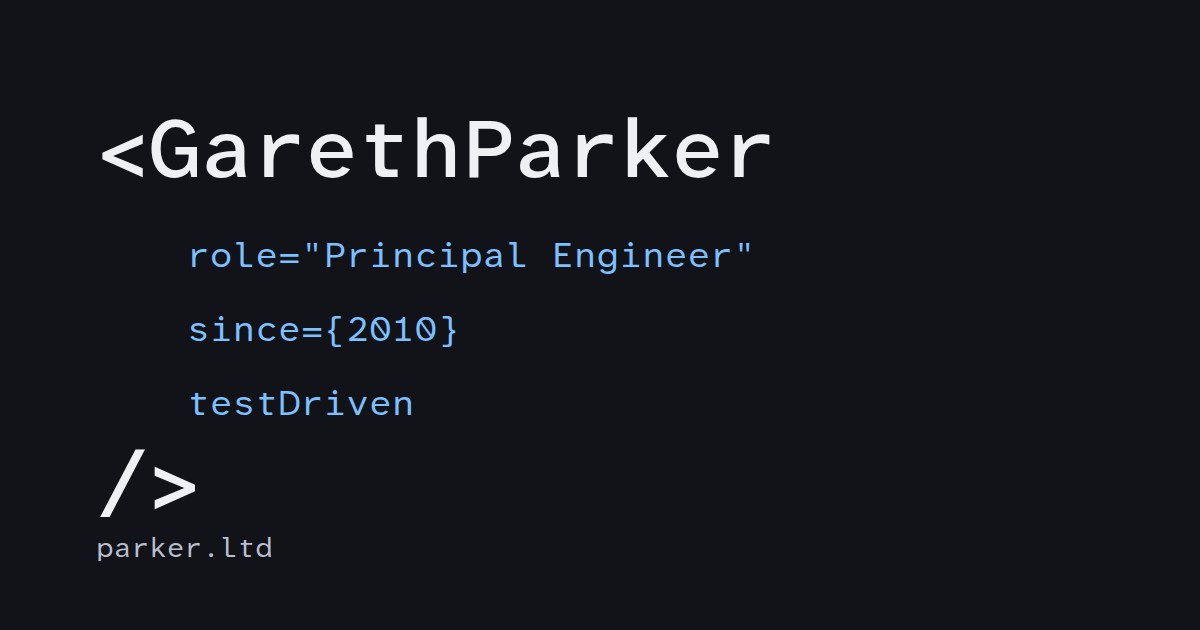
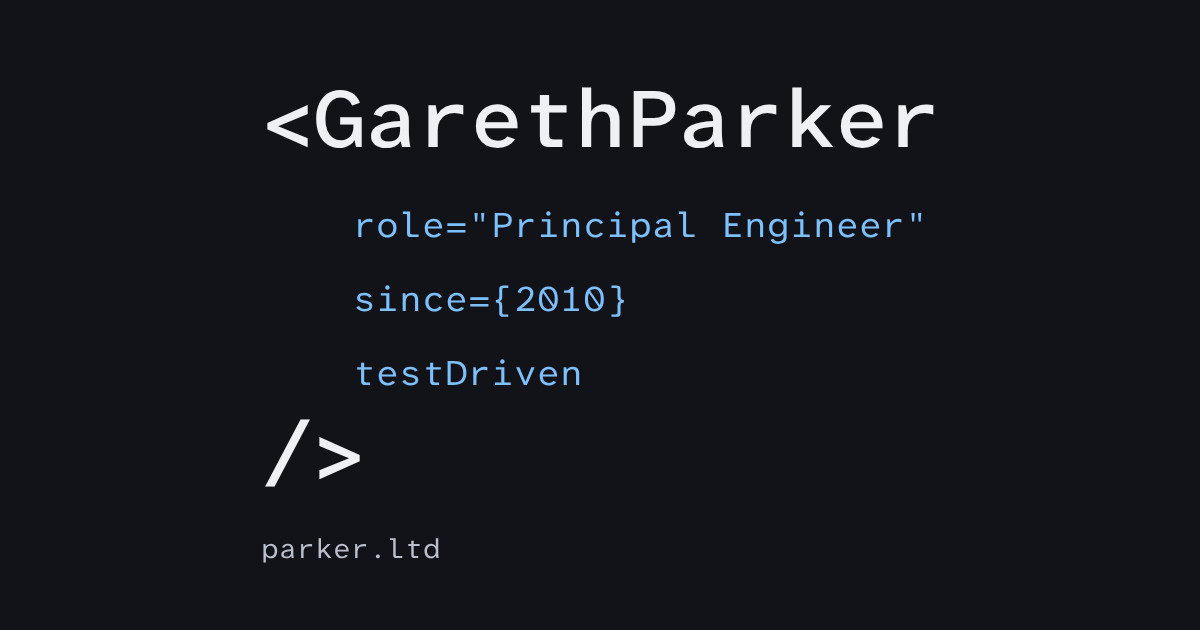
Try updating the og image for cropping

diff --git a/scripts/make-og.ts b/scripts/make-og.ts
@@ -13,17 +13,18 @@ const html = `<!doctype html>
 <style>
   @font-face { font-family: Mono; font-weight: 200 800; src: url(data:font/woff2;base64,${mono}) format("woff2"); }
   html, body { margin: 0; }
-  body { width: 1200px; height: 630px; background: #111318; display: grid; align-content: center; padding: 0 96px; box-sizing: border-box; font-family: Mono, monospace; }
+  /* The code block sits in the middle, so previews that crop the card to a narrower shape (Teams) cut both sides evenly. */
+  body { width: 1200px; height: 630px; background: #111318; display: grid; place-content: center; font-family: Mono, monospace; }
   .big { color: #eef0f4; font-size: 84px; font-weight: 500; letter-spacing: -0.01em; }
   .sub { color: #7cc0ff; font-size: 36px; margin-top: 28px; }
-  .domain { color: #b9bfcc; font-size: 28px; position: absolute; left: 96px; bottom: 64px; }
+  .domain { color: #b9bfcc; font-size: 28px; margin-top: 24px; }
 </style>
 <div class="big">&lt;${profile.name.replaceAll(" ", "")}</div>
 <div class="sub">&nbsp;&nbsp;&nbsp;&nbsp;role="${profile.role}"</div>
 <div class="sub">&nbsp;&nbsp;&nbsp;&nbsp;since={2010}</div>
 <div class="sub">&nbsp;&nbsp;&nbsp;&nbsp;testDriven</div>
-<div class="domain">${profile.domain}</div>
-<div class="big">/&gt;</div>`;
+<div class="big">/&gt;</div>
+<div class="domain">${profile.domain}</div>`;
 
 const browser = await chromium.launch(process.env.CHROMIUM_PATH ? { executablePath: process.env.CHROMIUM_PATH } : {});
 const page = await browser.newPage({ viewport: { width: 1200, height: 630 } });
